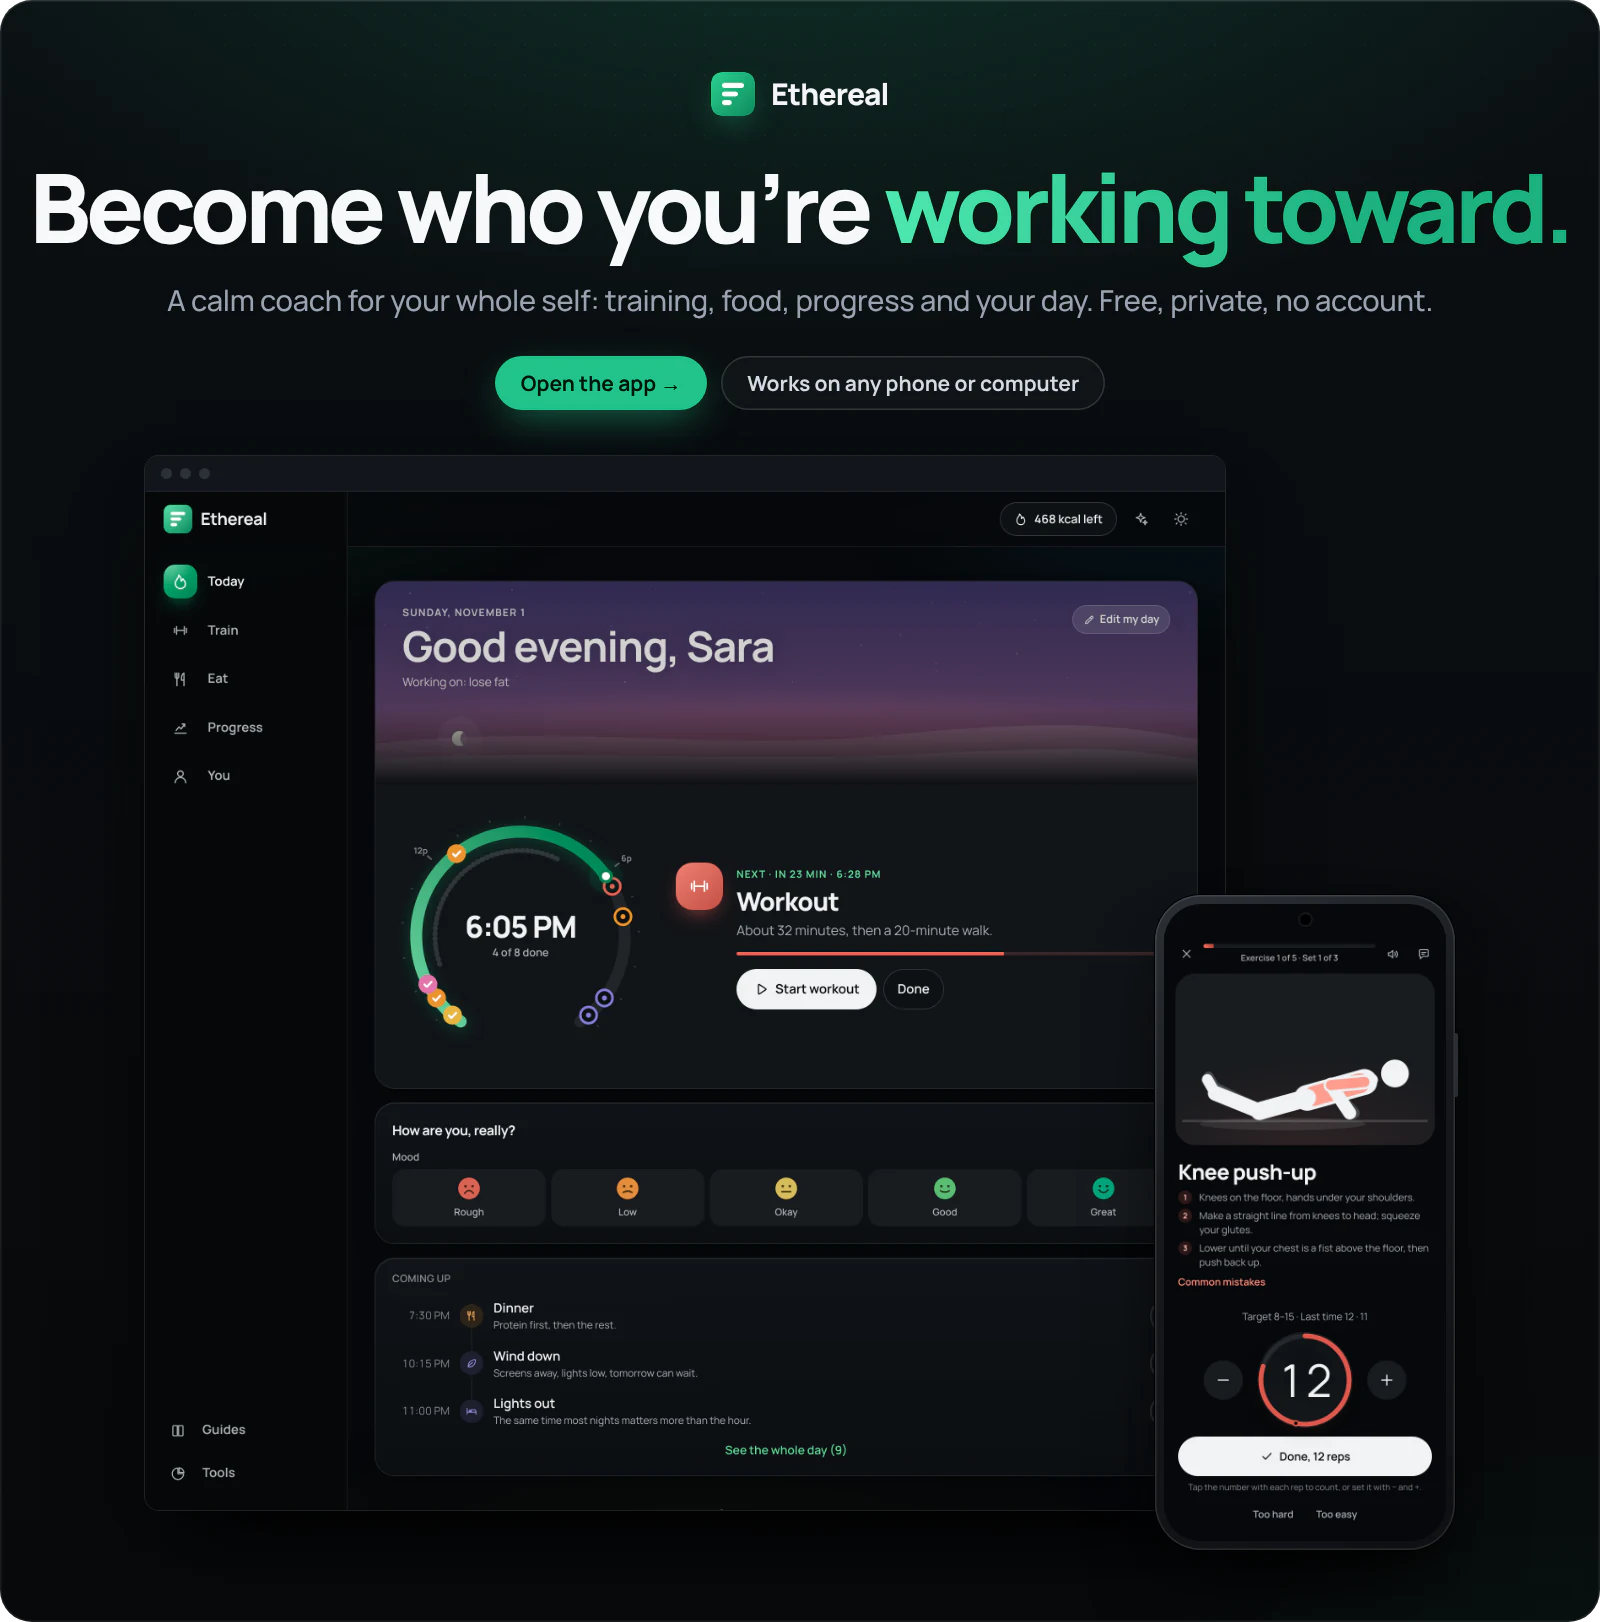
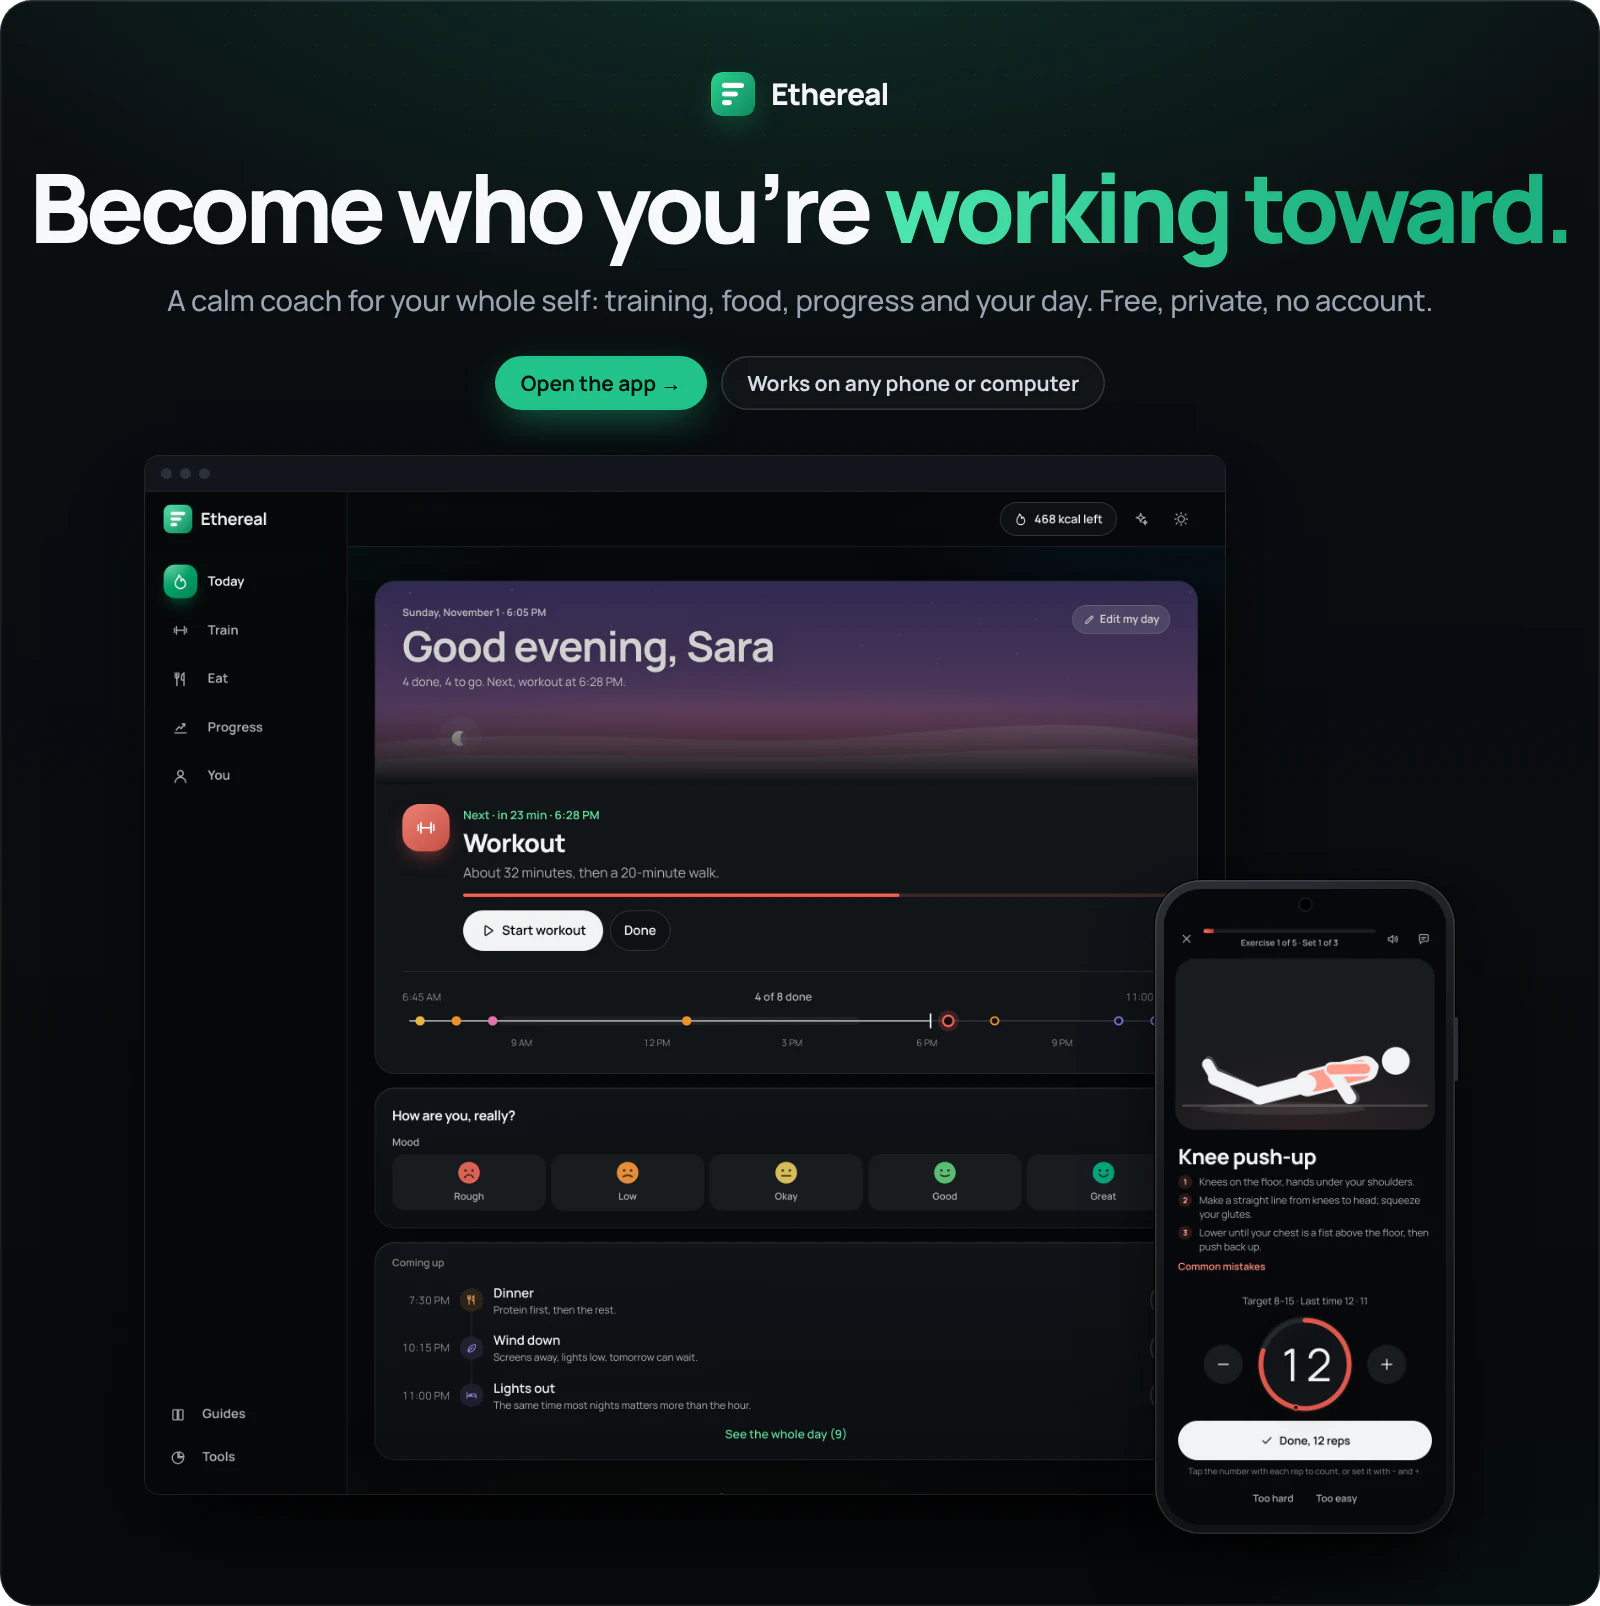
README: visuals and copy for the day track
Claude-Session: https://claude.ai/code/session_01GyztRj6Jw5HwqMksHqf4CU

diff --git a/README.md b/README.md
@@ -40,7 +40,7 @@ Most health apps do one thing, charge a subscription for it, and leave you to wo
 
 Today opens under a living sky that follows your real time of day and your city's sun, from a lavender first light to a deep indigo night with the moon in tonight's phase. Beneath it is your day, planned around you: the thing to do now, with one button to do it, and the rest of the day in order. Tell it when you wake, eat and work once, and it does the planning.
 
-- **A day dial and a Now card.** Every moment sits on a dial of your waking day, in its own colour. The Now card counts down to what is next: log lunch, start the workout, weigh in, or tick it done. Swipe a row to tick it off.
+- **A Now card and a day track.** The Now card counts down to what is next: log lunch, start the workout, weigh in, or tick it done. Under it, your waking day is one fine line, filled up to now, with every moment as a dot in its own colour. Swipe a row to tick it off.
 - **Your whole day in one line.** Meals, medicines at the right time, prayer times calculated on the device (with the next one counting down under the sky), training placed clear of work and meals, winding down and sleep.
 - **No guilt.** Missed something? Catch me up gathers it: tick what you did, let the rest go. Fasting moves meals to suhoor and iftar and training to after iftar.
 
